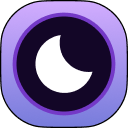
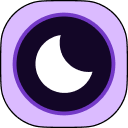
feat(i18n): 国际化重构并优化UI交互
- 移除中文语言包，将默认语言设为英文
- 更新所有英文翻译文本，统一使用“nap”术语
- 优化设置页面UI，添加单位标签和字段描述
- 为当前标签和白名单标签添加悬停提示
- 调整检查间隔为6秒，提高响应速度
- 修复CSS引入方式，通过manifest统一管理
- 更新图标文件

Changed region(s): [[0.0, 0.1562, 1.0, 1.0]]

diff --git a/popup.html b/popup.html
@@ -222,6 +222,11 @@
       transition: opacity 0.2s;
     }
 
+    .tab-title.hover-info {
+      font-size: 0.75rem;
+      color: var(--text-secondary);
+    }
+
     .tab-item.has-timer:hover .tab-title {
       opacity: 0;
     }
@@ -304,7 +309,7 @@
     .search-input {
       width: 100%;
       padding: 8px 12px 8px 32px;
-      background: var(--bg-secondary);
+      background: rgba(0, 0, 0, 0.08);
       border: 1px solid var(--border-color);
       border-radius: 20px;
       box-sizing: border-box;
@@ -388,12 +393,6 @@
       background: var(--border-color);
     }
 
-    .whitelist-btn.active {
-      background: var(--bg-primary);
-      color: var(--text-primary);
-      border: 1px solid var(--border-color);
-    }
-
     .actions {
       display: flex;
       flex-direction: column;
@@ -472,9 +471,23 @@
     }
 
     .field-content {
+      position: relative;
       display: flex;
-      flex-direction: column;
-      gap: 8px;
+      align-items: center;
+    }
+
+    .field-content input[type="number"] {
+      flex: 1;
+      padding-right: 48px;
+    }
+
+    .input-unit {
+      position: absolute;
+      right: 12px;
+      font-size: 0.75rem;
+      color: var(--text-secondary);
+      pointer-events: none;
+      opacity: 0.7;
     }
 
     /* Switch */
@@ -495,7 +508,7 @@
       position: absolute;
       cursor: pointer;
       top: 0; left: 0; right: 0; bottom: 0;
-      background: var(--bg-tertiary);
+      background: rgba(0, 0, 0, 0.04);
       border: 1px solid var(--border-color);
       border-radius: 999px;
       transition: all 0.2s;
@@ -548,7 +561,7 @@
     textarea {
       width: 100%;
       padding: 8px 12px;
-      background: var(--bg-primary);
+      background: rgba(0, 0, 0, 0.04);
       border: 1px solid var(--border-color);
       border-radius: var(--radius-md);
       box-sizing: border-box;
@@ -564,9 +577,27 @@
       border-color: var(--text-secondary);
     }
     
+    .field-description {
+      font-size: 0.7rem;
+      color: var(--text-secondary);
+      opacity: 0.7;
+      margin-top: 2px;
+    }
+
     textarea {
+      width: 100%;
       height: 80px;
-      resize: vertical;
+      padding: 10px;
+      border: 1px solid var(--border-color);
+      border-radius: 8px;
+      background: rgba(0, 0, 0, 0.04);
+      color: var(--text-primary);
+      font-family: inherit;
+      font-size: 0.8rem;
+      resize: none;
+      box-sizing: border-box;
+      outline: none;
+      transition: border-color 0.2s, box-shadow 0.2s;
     }
     
     #status {
@@ -648,9 +679,9 @@
     </div>
 
     <div class="tab-switcher">
-      <div id="tab-napped" class="tab-btn active">已休眠</div>
-      <div id="tab-active" class="tab-btn">正在运行</div>
-    </div>
+        <div id="tab-napped" class="tab-btn active" data-i18n="tabNapped">Napped</div>
+        <div id="tab-active" class="tab-btn" data-i18n="tabActive">Running</div>
+      </div>
 
     <div id="tab-list" class="tab-list">
       <!-- Tab items will be injected here -->
@@ -664,78 +695,86 @@
       <button id="back-to-main" class="back-btn" data-i18n-title="back">
         <svg width="18" height="18" viewBox="0 0 24 24" fill="none" stroke="currentColor" stroke-width="2.5" stroke-linecap="round" stroke-linejoin="round"><line x1="19" y1="12" x2="5" y2="12"></line><polyline points="12 19 5 12 12 5"></polyline></svg>
       </button>
-      <h3 style="margin: 0; font-size: 1.1rem; font-weight: 700; letter-spacing: -0.01em;" data-i18n="optionsTitle">TabNap 设置</h3>
+      <h3 style="margin: 0; font-size: 1.1rem; font-weight: 700; letter-spacing: -0.01em;" data-i18n="optionsTitle">TabNap Settings</h3>
     </div>
 
     <div class="settings-view-content">
       <div class="field">
         <div class="field-header">
           <label for="enableAutoSleep">
-            <span data-i18n="timeoutLabel">自动休眠 (分钟)</span>
+            <span data-i18n="timeoutLabel">Auto Nap</span>
             <button class="info-icon" type="button" data-i18n-title="timeoutHelp">
               <svg width="12" height="12" viewBox="0 0 24 24" fill="none" stroke="currentColor" stroke-width="2" stroke-linecap="round" stroke-linejoin="round"><circle cx="12" cy="12" r="10"></circle><line x1="12" y1="10" x2="12" y2="16"></line><circle cx="12" cy="7" r="1"></circle></svg>
             </button>
           </label>
-          <label class="switch" aria-label="启用自动休眠">
+          <label class="switch" aria-label="Enable auto sleep">
             <input type="checkbox" id="enableAutoSleep">
             <span class="slider"></span>
           </label>
         </div>
         <div id="timeout-content" class="field-content">
           <input type="number" id="timeout" min="1" max="1440" value="10">
+          <span class="input-unit" data-i18n="minutes">mins</span>
         </div>
       </div>
 
       <div class="field">
         <div class="field-header">
           <label for="enableAutoClose">
-            <span data-i18n="autoCloseTimeoutLabel">自动关闭 (分钟)</span>
+            <span data-i18n="autoCloseTimeoutLabel">Auto Close</span>
             <button class="info-icon" type="button" data-i18n-title="autoCloseHelp">
               <svg width="12" height="12" viewBox="0 0 24 24" fill="none" stroke="currentColor" stroke-width="2" stroke-linecap="round" stroke-linejoin="round"><circle cx="12" cy="12" r="10"></circle><line x1="12" y1="10" x2="12" y2="16"></line><circle cx="12" cy="7" r="1"></circle></svg>
             </button>
           </label>
-          <label class="switch" aria-label="启用自动关闭">
+          <label class="switch" aria-label="Enable auto close">
             <input type="checkbox" id="enableAutoClose">
             <span class="slider"></span>
           </label>
         </div>
         <div id="autoClose-content" class="field-content">
           <input type="number" id="autoCloseTimeout" min="1" max="1440" value="300">
+          <span class="input-unit" data-i18n="minutes">mins</span>
         </div>
       </div>
 
       <div class="field">
         <div class="field-header">
           <label for="enableKeepActive">
-            <span data-i18n="keepActiveLabel">保持最近打开的标签页 (个)</span>
+            <span data-i18n="keepActiveLabel">Protected Tabs</span>
             <button class="info-icon" type="button" data-i18n-title="keepActiveHelp">
               <svg width="12" height="12" viewBox="0 0 24 24" fill="none" stroke="currentColor" stroke-width="2" stroke-linecap="round" stroke-linejoin="round"><circle cx="12" cy="12" r="10"></circle><line x1="12" y1="10" x2="12" y2="16"></line><circle cx="12" cy="7" r="1"></circle></svg>
             </button>
           </label>
-          <label class="switch" aria-label="启用保持最近打开的标签页">
+          <label class="switch" aria-label="Enable keep recent tabs">
             <input type="checkbox" id="enableKeepActive">
             <span class="slider"></span>
           </label>
         </div>
         <div id="keepActive-content" class="field-content">
           <input type="number" id="activeTabsToKeep" min="1" max="100" value="5">
+          <span class="input-unit" style="padding-right: 0;">tabs</span>
         </div>
       </div>
 
       <div class="field">
         <div class="field-header">
-          <label for="excludeAudio" data-i18n="excludeAudioLabel">保持正在播放声音的标签页</label>
-          <label class="switch" aria-label="启用保持播放音频的标签页">
+          <label for="excludeAudio" data-i18n="excludeAudioLabel">Keep Tabs Playing Audio</label>
+          <label class="switch" aria-label="Enable keep audio tabs">
             <input type="checkbox" id="excludeAudio">
             <span class="slider"></span>
           </label>
         </div>
       </div>
 
-      <div class="field" style="background: transparent; border: none; padding: 0; margin-top: 8px;">
-        <label for="whitelist" data-i18n="whitelistLabel" style="margin-bottom: 8px; font-size: 0.75rem; color: var(--text-secondary); text-transform: uppercase; letter-spacing: 0.05em;">白名单 (每行一个关键词或域名):</label>
-        <textarea id="whitelist" data-i18n-placeholder="whitelistPlaceholder"
-          placeholder="例如: youtube.com&#10;gmail.com&#10;music"></textarea>
+      <div class="field">
+        <div class="field-header" style="flex-direction: column; align-items: flex-start;">
+          <label for="whitelist" data-i18n="whitelistLabel">Whitelist</label>
+          <div class="field-description" data-i18n="whitelistDescription">One keyword or domain per line</div>
+        </div>
+        <div class="field-content" style="margin-top: 10px;">
+          <textarea id="whitelist" data-i18n-placeholder="whitelistPlaceholder"
+            placeholder="e.g.: youtube.com&#10;gmail.com&#10;music"></textarea>
+        </div>
       </div>
       <div id="status"></div>
     </div>

diff --git a/popup.js b/popup.js
@@ -177,7 +177,7 @@ function formatTime(ms, isCountdown = false) {
   
   const minStr = chrome.i18n.getMessage('minutes') || 'm';
   const secStr = chrome.i18n.getMessage('seconds') || 's';
-  const afterSleepStr = isCountdown ? (chrome.i18n.getMessage('afterSleep') || '后休眠') : '';
+  const afterSleepStr = isCountdown ? (chrome.i18n.getMessage('afterSleep') || ' to nap') : '';
   
   if (minutes >= 1) {
     return `${minutes}${minStr}${afterSleepStr}`;
@@ -333,6 +333,23 @@ function createTabItem(tab, settings, currentWindow, now, whitelist, timeoutMs, 
   title.className = 'tab-title';
   title.textContent = tab.title;
   title.title = tab.title;
+
+  // 悬停时修改标题文字的逻辑
+  if (isCurrentViewing || isWhitelisted) {
+    const originalTitle = tab.title;
+    const hoverText = isCurrentViewing 
+      ? (chrome.i18n.getMessage('currentTabHover') || 'Current Tab')
+      : (chrome.i18n.getMessage('whitelistedTabHover') || 'Whitelisted Tab');
+    
+    tabItem.addEventListener('mouseenter', () => {
+      title.textContent = hoverText;
+      title.classList.add('hover-info');
+    });
+    tabItem.addEventListener('mouseleave', () => {
+      title.textContent = originalTitle;
+      title.classList.remove('hover-info');
+    });
+  }
   
   const meta = document.createElement('div');
   meta.className = 'tab-meta';
@@ -450,9 +467,9 @@ function updateTimeSpan(timeSpan, settings, now, timeoutMs, enableAutoSleep) {
       const remainingClose = autoCloseTimeoutMs - (now - lastActive);
       
       if (remainingClose > 0) {
-        const closeStr = chrome.i18n.getMessage('autoCloseIn') || '后关闭';
+        const closeStr = chrome.i18n.getMessage('autoCloseIn') || ' to close';
         const closeTime = formatTime(remainingClose);
-        const nappedForStr = chrome.i18n.getMessage('nappedFor') || '已休眠';
+        const nappedForStr = chrome.i18n.getMessage('nappedFor') || 'Napped';
         if (timeText) {
           timeSpan.textContent = `${nappedForStr} ${timeText} (${closeTime}${closeStr})`;
         } else {

diff --git a/background.js b/background.js
@@ -3,8 +3,8 @@ const DEFAULT_TIMEOUT = 10; // 10 分钟
 const DEFAULT_AUTO_CLOSE_TIMEOUT = 300; // 默认 300 分钟后自动关闭
 const DEFAULT_KEEP_ACTIVE = 5; // 默认保留最近活跃的 5 个标签页不休眠
 const BASE_NAP_TITLE = chrome.i18n.getMessage('napGroupTitle') || "😴 Nap";
-const CHECK_INTERVAL = 0.16; // 每 10 秒左右检查一次 (6/60 = 0.1)
-const WARNING_TEXT = chrome.i18n.getMessage('warningText') || "即将休眠...";
+const CHECK_INTERVAL = 0.1; // 每 6 秒左右检查一次 (6/60 = 0.1)
+const WARNING_TEXT = chrome.i18n.getMessage('warningText') || "Napping soon...";
 const WARNING_THRESHOLD = 10 * 1000; // 10 秒
 
 // 记录原始标题，用于恢复

diff --git a/content.js b/content.js
@@ -1,4 +1,3 @@
-import './content.css';
 
 (function() {
   if (window.tabNapInitialized) return;
